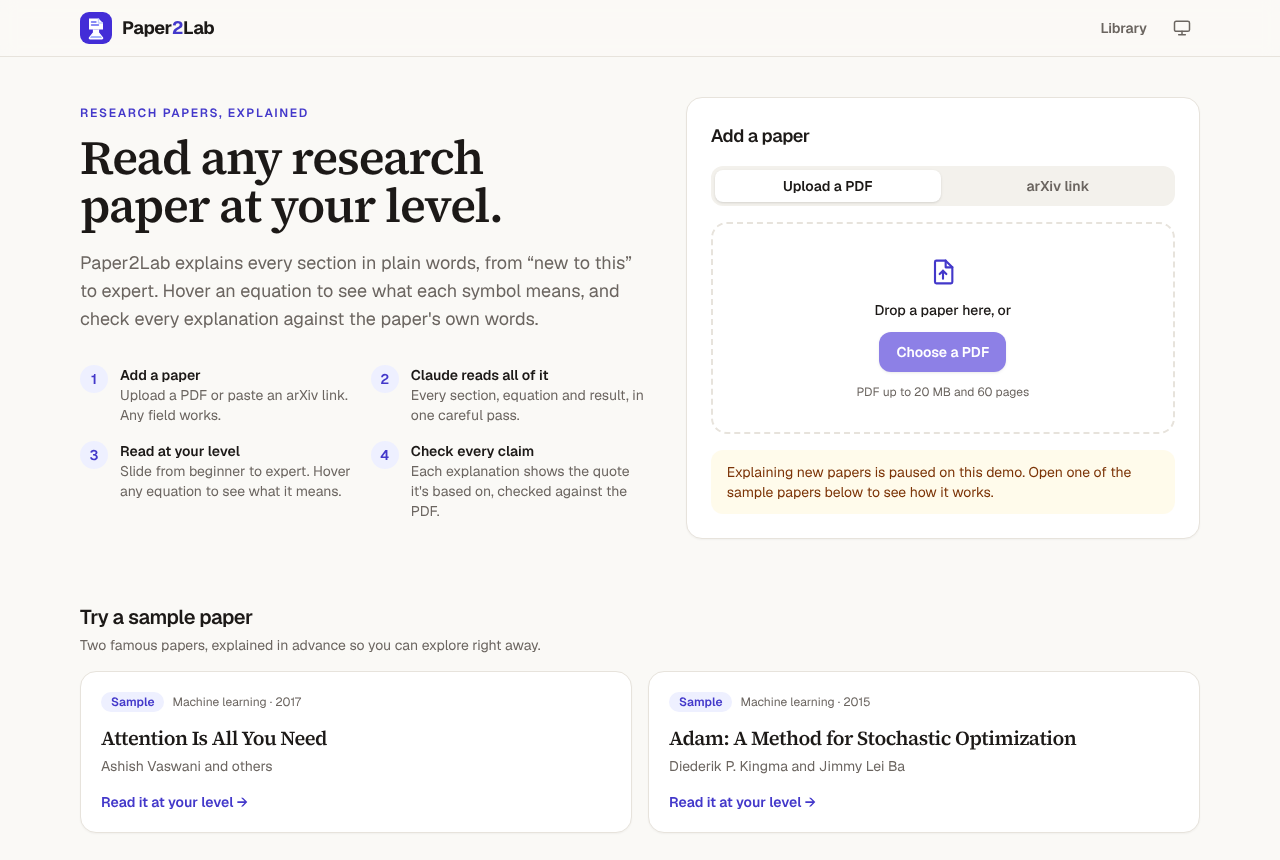
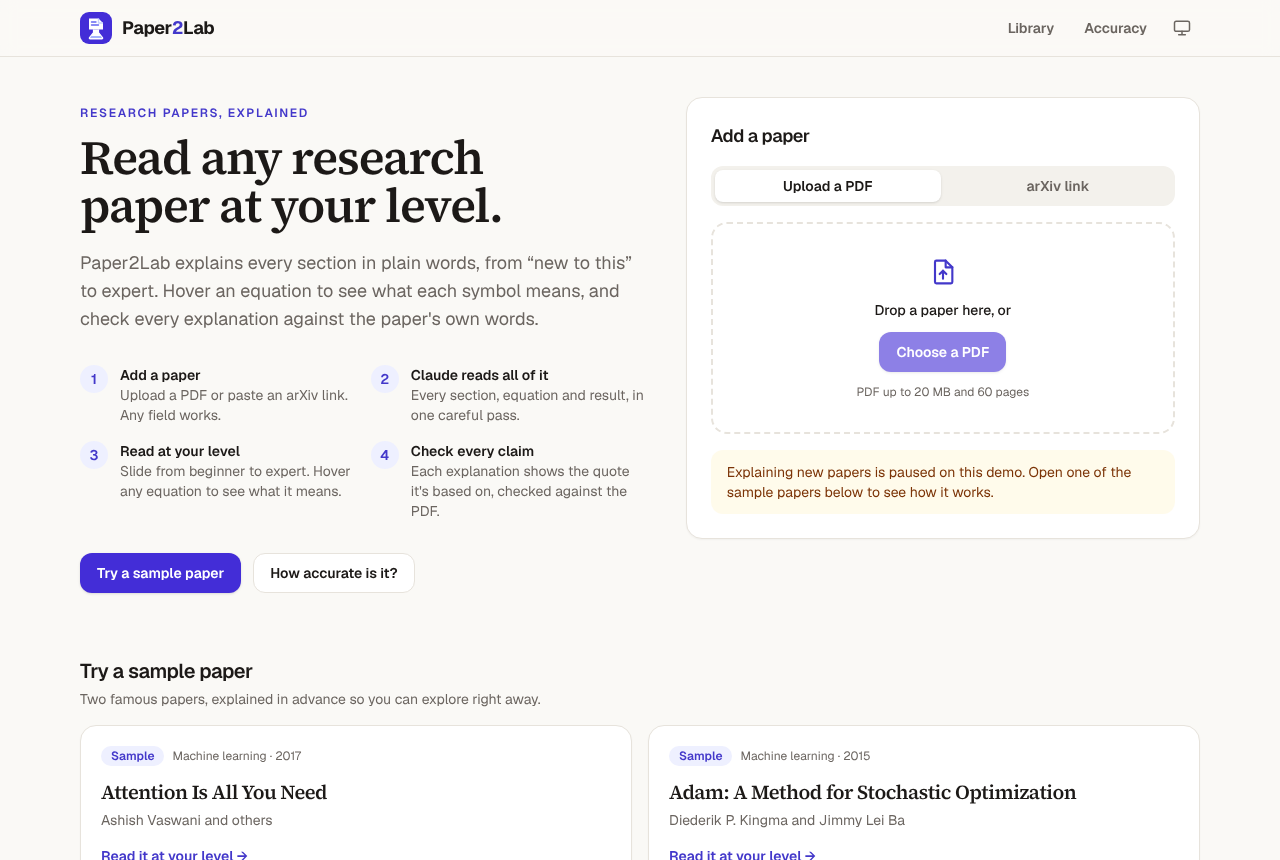
Polish for production: sharing, first-visit experience, README
- Home: "Try a sample paper" and "How accurate is it?" buttons in demo mode
- Pages say when the free API server is waking up instead of looking stuck
- Each paper's tab shows its title; share preview image, sitemap and robots.txt
- Site address falls back to Vercel's production URL; optional SITE_URL
- Demo labels render d_k as a subscript; footer credits the author
- README: live demo link, CI and licence badges, screenshot gallery, tech stack
- MIT licence and weekly grouped Dependabot updates

Claude-Session: https://claude.ai/code/session_01X6QQ1MwzRSwuku1N3W13SD

diff --git a/frontend/src/app/opengraph-image.tsx b/frontend/src/app/opengraph-image.tsx
@@ -1,0 +1,66 @@
+import { ImageResponse } from "next/og";
+
+// The picture shown when a link to Paper2Lab is shared (LinkedIn, Slack, WhatsApp, …).
+export const alt = "Paper2Lab: read any research paper at your level";
+export const size = { width: 1200, height: 630 };
+export const contentType = "image/png";
+
+const LEVELS = ["New to this", "Student", "Expert"];
+
+export default function Image() {
+  return new ImageResponse(
+    (
+      <div
+        style={{
+          width: "100%",
+          height: "100%",
+          display: "flex",
+          flexDirection: "column",
+          justifyContent: "space-between",
+          padding: 72,
+          background: "#faf9f6",
+          color: "#1c1917",
+          fontFamily: "sans-serif",
+        }}
+      >
+        <div style={{ display: "flex", alignItems: "center", gap: 20 }}>
+          <svg width="72" height="72" viewBox="0 0 32 32">
+            <rect width="32" height="32" rx="9" fill="#4338ca" />
+            <path d="M9 6.5h9.5L23 11v6.5H9Z" fill="#fff" />
+            <path d="M11.5 10h4.5M11.5 13h7" stroke="#6366f1" strokeWidth="1.4" strokeLinecap="round" />
+            <path d="M13.5 17.5v3l-4 5.2a.8.8 0 0 0 .6 1.3h11.8a.8.8 0 0 0 .6-1.3l-4-5.2v-3" fill="#fff" />
+            <path d="M11.3 24h9.4l1.3 1.9H10Z" fill="#a5b4fc" />
+          </svg>
+          <div style={{ display: "flex", fontSize: 44, fontWeight: 700 }}>Paper2Lab</div>
+        </div>
+        <div style={{ display: "flex", flexDirection: "column", gap: 24 }}>
+          <div style={{ fontSize: 76, fontWeight: 700, lineHeight: 1.05, letterSpacing: -2 }}>
+            Read any research paper at your level.
+          </div>
+          <div style={{ fontSize: 32, color: "#57534e" }}>
+            Every section explained, every equation decoded, every claim backed by the paper&apos;s own words.
+          </div>
+        </div>
+        <div style={{ display: "flex", gap: 16 }}>
+          {LEVELS.map((level, i) => (
+            <div
+              key={level}
+              style={{
+                display: "flex",
+                padding: "12px 28px",
+                borderRadius: 999,
+                fontSize: 28,
+                fontWeight: 600,
+                background: i === 1 ? "#4338ca" : "#eef2ff",
+                color: i === 1 ? "#fff" : "#4338ca",
+              }}
+            >
+              {level}
+            </div>
+          ))}
+        </div>
+      </div>
+    ),
+    size,
+  );
+}

diff --git a/frontend/src/components/AccuracyPage.tsx b/frontend/src/components/AccuracyPage.tsx
@@ -4,6 +4,7 @@ import Link from "next/link";
 import { useCallback, useEffect, useState } from "react";
 
 import { type AccuracyReport, ApiError, api } from "@/lib/api";
+import { useSlow, WAKING_UP } from "@/lib/useSlow";
 
 function percent(found: number, total: number) {
   return total === 0 ? "–" : `${Math.round((found / total) * 1000) / 10}%`;
@@ -52,6 +53,7 @@ export function AccuracyPage() {
     // eslint-disable-next-line react-hooks/set-state-in-effect -- loading data when the page opens
     load();
   }, [load]);
+  const slow = useSlow(!report && !error);
 
   return (
     <div className="mx-auto max-w-4xl space-y-12">
@@ -93,7 +95,7 @@ export function AccuracyPage() {
             />
           </div>
           <p className="text-xs text-muted">
-            Updated {new Date(report.updated_at).toLocaleString()}.
+            Updated {new Date(report.updated_at).toLocaleString(undefined, { dateStyle: "medium", timeStyle: "short" })}.
             {report.scanned_papers > 0 &&
               ` ${report.scanned_papers} scanned ${report.scanned_papers === 1 ? "paper has" : "papers have"} no text to check against, so ${
                 report.scanned_papers === 1 ? "it isn't" : "they aren't"
@@ -101,7 +103,16 @@ export function AccuracyPage() {
           </p>
         </section>
       ) : (
-        !error && <div className="grid gap-4 sm:grid-cols-3">{[0, 1, 2].map((i) => <div key={i} className="skeleton h-36" />)}</div>
+        !error && (
+          <div className="space-y-3">
+            {slow && (
+              <p role="status" className="text-sm text-muted">
+                {WAKING_UP}
+              </p>
+            )}
+            <div className="grid gap-4 sm:grid-cols-3">{[0, 1, 2].map((i) => <div key={i} className="skeleton h-36" />)}</div>
+          </div>
+        )
       )}
 
       <section aria-labelledby="how" className="space-y-4">

diff --git a/frontend/src/app/layout.tsx b/frontend/src/app/layout.tsx
@@ -4,6 +4,7 @@ import Link from "next/link";
 
 import { Logo } from "@/components/Logo";
 import { THEME_SCRIPT, ThemeToggle } from "@/components/ThemeToggle";
+import { SITE_URL } from "@/lib/site";
 import "@fontsource-variable/source-serif-4";
 import "katex/dist/katex.min.css";
 import "./globals.css";
@@ -12,7 +13,7 @@ const DESCRIPTION =
   "Upload a research paper or paste an arXiv link. Paper2Lab explains every section at the level you choose, shows what each equation means, and backs every explanation with a quote from the paper.";
 
 export const metadata: Metadata = {
-  metadataBase: new URL(process.env.SITE_URL ?? "http://localhost:3000"),
+  metadataBase: new URL(SITE_URL),
   title: { default: "Paper2Lab: read any research paper at your level", template: "%s · Paper2Lab" },
   description: DESCRIPTION,
   applicationName: "Paper2Lab",
@@ -22,6 +23,7 @@ export const metadata: Metadata = {
     title: "Paper2Lab: read any research paper at your level",
     description: DESCRIPTION,
   },
+  twitter: { card: "summary_large_image" },
 };
 
 export const viewport: Viewport = {
@@ -73,9 +75,17 @@ export default function RootLayout({ children }: LayoutProps<"/">) {
               </Link>
               .
             </p>
-            <a href="https://github.com/whatalshifa/paper2lab" className="hover:text-foreground">
-              Source code
-            </a>
+            <p className="flex shrink-0 gap-4">
+              <span>
+                Built by{" "}
+                <a href="https://github.com/whatalshifa" className="underline hover:text-foreground">
+                  Alshifa
+                </a>
+              </span>
+              <a href="https://github.com/whatalshifa/paper2lab" className="underline hover:text-foreground">
+                Source code
+              </a>
+            </p>
           </div>
         </footer>
       </body>

diff --git a/frontend/src/components/Home.tsx b/frontend/src/components/Home.tsx
@@ -4,6 +4,7 @@ import Link from "next/link";
 import { useCallback, useEffect, useState } from "react";
 
 import { ApiError, api, type PaperSummary, type SiteConfig } from "@/lib/api";
+import { useSlow, WAKING_UP } from "@/lib/useSlow";
 
 import { AddPaper } from "./AddPaper";
 
@@ -87,6 +88,7 @@ export function Home() {
     // eslint-disable-next-line react-hooks/set-state-in-effect -- loading data when the page opens
     load();
   }, [load]);
+  const slow = useSlow(!papers && !error);
 
   return (
     <div className="space-y-16">
@@ -113,6 +115,16 @@ export function Home() {
               </li>
             ))}
           </ol>
+          {config && !config.ai_enabled && (
+            <div className="mt-8 flex flex-wrap gap-3">
+              <a href="#samples" className="btn btn-primary">
+                Try a sample paper
+              </a>
+              <Link href="/accuracy" className="btn btn-secondary">
+                How accurate is it?
+              </Link>
+            </div>
+          )}
         </div>
         <AddPaper config={config} />
       </section>
@@ -139,9 +151,14 @@ export function Home() {
           </div>
         )}
 
-        <div>
+        <div id="samples" className="scroll-mt-20">
           <h2 className="text-xl font-semibold tracking-tight">Try a sample paper</h2>
           <p className="mt-1 text-sm text-muted">Two famous papers, explained in advance so you can explore right away.</p>
+          {slow && (
+            <p role="status" className="mt-3 text-sm text-muted">
+              {WAKING_UP}
+            </p>
+          )}
           <div className="mt-4 grid gap-4 sm:grid-cols-2">
             {papers
               ? papers.samples.map((paper) => <SampleCard key={paper.id} paper={paper} />)

diff --git a/frontend/src/components/PaperPage.tsx b/frontend/src/components/PaperPage.tsx
@@ -5,6 +5,7 @@ import { useRouter } from "next/navigation";
 import { useCallback, useEffect, useState } from "react";
 
 import { ApiError, api, type PaperDetail } from "@/lib/api";
+import { useSlow, WAKING_UP } from "@/lib/useSlow";
 
 import { ReadingView } from "./ReadingView";
 
@@ -98,6 +99,13 @@ export function PaperPage({ id }: { id: string }) {
     load();
   }, [load]);
 
+  // The tab (and the browser history) shows which paper this is.
+  const title = paper?.title;
+  useEffect(() => {
+    if (title) document.title = `${title} · Paper2Lab`;
+  }, [title]);
+  const slow = useSlow(!paper && !error);
+
   // While the paper is being read, check again every few seconds.
   const working = paper?.status === "queued" || paper?.status === "reading";
   useEffect(() => {
@@ -147,7 +155,17 @@ export function PaperPage({ id }: { id: string }) {
       </div>
     );
   }
-  if (!paper) return <Skeleton />;
+  if (!paper)
+    return (
+      <>
+        {slow && (
+          <p role="status" className="mb-6 text-sm text-muted">
+            {WAKING_UP}
+          </p>
+        )}
+        <Skeleton />
+      </>
+    );
   if (paper.status === "failed") return <Failed paper={paper} onRetry={retry} onDelete={remove} />;
   if (paper.status !== "ready" || !paper.reading) return <Working paper={paper} />;
   return <ReadingView paper={paper} reading={paper.reading} onDelete={paper.is_sample ? undefined : remove} />;

diff --git a/frontend/e2e/phase5.spec.ts b/frontend/e2e/phase5.spec.ts
@@ -93,3 +93,19 @@ test("references and code links appear when the paper has them", async ({ page }
   await expect(section.getByText("Key reference")).toBeVisible();
   await expect(section.getByText(/most important of its 40 references/)).toBeVisible();
 });
+
+test("the site is ready to share: paper titles, a sitemap and a preview image", async ({ page, request }) => {
+  await page.goto("/");
+  await page.getByRole("link", { name: "Try a sample paper" }).click();
+  await expect(page.getByRole("heading", { name: "Try a sample paper" })).toBeInViewport();
+
+  await page.goto(ATTENTION);
+  await expect(page).toHaveTitle("Attention Is All You Need · Paper2Lab");
+
+  const sitemap = await (await request.get("/sitemap.xml")).text();
+  expect(sitemap).toContain("/accuracy</loc>");
+  expect(sitemap).toContain("/papers/00000000-0000-4000-8000-000000001706</loc>");
+  expect(await (await request.get("/robots.txt")).text()).toContain("Disallow: /api/");
+  const image = await request.get("/opengraph-image");
+  expect(image.headers()["content-type"]).toBe("image/png");
+});

diff --git a/frontend/src/components/demos/index.tsx b/frontend/src/components/demos/index.tsx
@@ -7,10 +7,15 @@ import { AttentionDemo } from "./AttentionDemo";
 
 export const DEMO_KINDS = ["attention-scaling", "adam-optimizer"];
 
-const DEMOS: Record<string, { title: string; note: string; body: () => ReactNode }> = {
+const DEMOS: Record<string, { title: string; note: ReactNode; body: () => ReactNode }> = {
   "attention-scaling": {
-    title: "Why divide by √d_k?",
-    note: "Queries and keys are random numbers with mean 0 and variance 1, as in the paper's footnote, so a dot product of d_k of them has variance d_k.",
+    title: "Why divide by the square root of the key size?",
+    note: (
+      <>
+        Queries and keys are random numbers with mean 0 and variance 1, as in the paper&apos;s footnote, so a dot
+        product of d<sub>k</sub> of them has variance d<sub>k</sub>.
+      </>
+    ),
     body: () => <AttentionDemo />,
   },
   "adam-optimizer": {

diff --git a/frontend/src/lib/useSlow.ts b/frontend/src/lib/useSlow.ts
@@ -1,0 +1,21 @@
+import { useEffect, useState } from "react";
+
+/**
+ * True once something has been loading for a while. The free API server sleeps when nobody uses
+ * it, and the first request after that takes up to a minute, so pages say so instead of looking
+ * stuck.
+ */
+export function useSlow(loading: boolean, after = 4000) {
+  const [slow, setSlow] = useState(false);
+  useEffect(() => {
+    if (!loading) return;
+    const timer = window.setTimeout(() => setSlow(true), after);
+    return () => {
+      window.clearTimeout(timer);
+      setSlow(false);
+    };
+  }, [loading, after]);
+  return loading && slow;
+}
+
+export const WAKING_UP = "Waking the server up after a quiet spell. This can take up to a minute the first time.";

diff --git a/frontend/src/components/demos/AttentionDemo.tsx b/frontend/src/components/demos/AttentionDemo.tsx
@@ -152,7 +152,15 @@ export function AttentionDemo() {
           ))}
         </ul>
         <p className="mt-3 text-xs text-muted">
-          Scores {scaled ? "q·k/√d_k" : "q·k"}:{" "}
+          Scores{" "}
+          {scaled ? (
+            <>
+              q·k/√d<sub>k</sub>
+            </>
+          ) : (
+            "q·k"
+          )}
+          :{" "}
           <span className="font-mono">{scores.map((s) => s.toFixed(1)).join(", ")}</span> · softmax slope at the top word{" "}
           <span className="font-mono">{slope.toFixed(3)}</span> (max 0.250)
         </p>

diff --git a/frontend/src/lib/site.ts b/frontend/src/lib/site.ts
@@ -1,0 +1,8 @@
+/** The site's public address: SITE_URL if set, else the address Vercel gives the production site. */
+export const SITE_URL =
+  process.env.SITE_URL ??
+  (process.env.VERCEL_PROJECT_PRODUCTION_URL
+    ? `https://${process.env.VERCEL_PROJECT_PRODUCTION_URL}`
+    : "http://localhost:3000");
+
+export const SAMPLE_IDS = ["00000000-0000-4000-8000-000000001706", "00000000-0000-4000-8000-000000001412"];

diff --git a/frontend/src/app/sitemap.ts b/frontend/src/app/sitemap.ts
@@ -1,0 +1,11 @@
+import type { MetadataRoute } from "next";
+
+import { SAMPLE_IDS, SITE_URL } from "@/lib/site";
+
+export default function sitemap(): MetadataRoute.Sitemap {
+  return [
+    { url: SITE_URL, priority: 1 },
+    { url: `${SITE_URL}/accuracy`, priority: 0.6 },
+    ...SAMPLE_IDS.map((id) => ({ url: `${SITE_URL}/papers/${id}`, priority: 0.8 })),
+  ];
+}

diff --git a/frontend/src/app/robots.ts b/frontend/src/app/robots.ts
@@ -1,0 +1,8 @@
+import type { MetadataRoute } from "next";
+
+import { SITE_URL } from "@/lib/site";
+
+export default function robots(): MetadataRoute.Robots {
+  // People's own papers are private (404 for anyone else), so only the API is kept out.
+  return { rules: { userAgent: "*", allow: "/", disallow: "/api/" }, sitemap: `${SITE_URL}/sitemap.xml` };
+}
